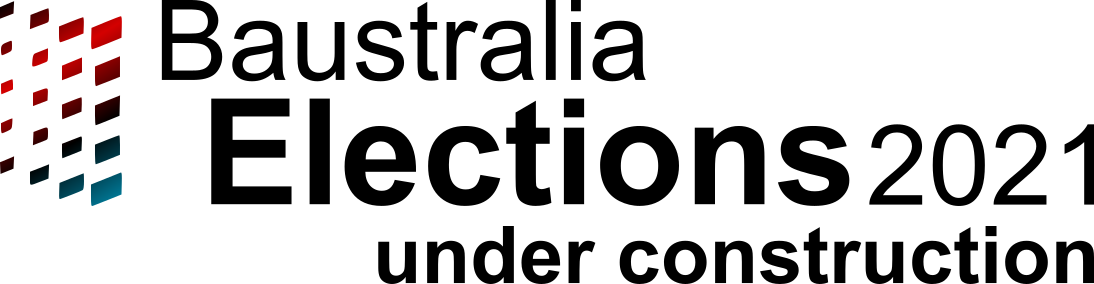
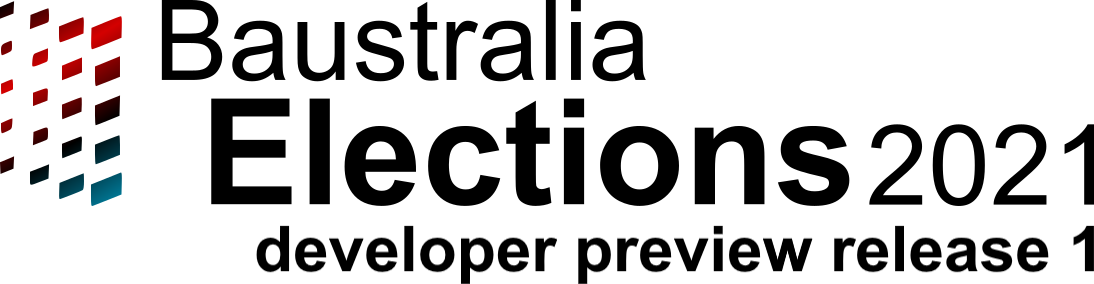
Add files via upload

Changed region(s): [[0.2176, 0.7887, 1.0, 1.0]]

diff --git a/ballot.htm b/ballot.htm
@@ -40,7 +40,7 @@
       <div class="about-image"><img draggable="false" src="about-dark.png" width=200px /></div>
       <div class="about-bar"></div>
       <div style="padding-left:4em;" class="abouttext">
-	  Baustralia Elections System<br/>Version 2.0 (Build 72)<br/>© Kingdom of Baustralia. 2020. Managed by the Communications Office.
+	  Baustralia Elections System<br/>Version 2.0 (Build 73; Developer Preview Release 1)<br/>© Kingdom of Baustralia. 2020. Managed by the Communications Office.
 	  <br/><br/><br/>
 	  This website does not, and cannot replace Microsoft Windows, or any other operating system. This does not have the ability to open a web page, save files, or read and run files, except as neccessary for voting purposes. All ballots with blank or incorrect information will be spoiled.
       </div>
@@ -65,7 +65,7 @@
    </div>
    <div class="buildstring">
       <b>Baustralia Elections System 2</b><br />
-      Version 2.0 (Build 72).<br/>For testing purposes only.
+      Version 2.0 (Build 73; Developer Preview Release 1).<br/>For testing purposes only.
    </div>
    <div class="taskbar">
       <a class="btn home" onclick="openAbout()">System 2</a>

diff --git a/README.md b/README.md
@@ -19,3 +19,9 @@ Build 70 - Added Notes window for writing notes while reading. May come in handy
 Build 71 - Added clock in taskbar. Added form info. Moved index.htm to startup.htm. The index.htm was recreated to hold a full-width and full-height iframe so window url doesn't change as you navigate through the system. Updated about text too.
 
 Build 72 - Added speeches, with a next button. The 'Speeches' taskbar button also appears when opened and disappears when closed. Ready for developer preview release on 20 June.
+
+Build 73 - Using DPR1 imagery. No functional changes.
+
+## Milestones
+
+Build 73 - Developer Preview Release 1
